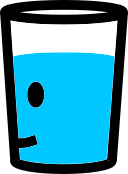
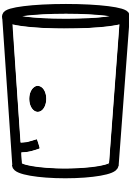
頭の水

diff --git a/Assets/Low_Swordman/Demo/Scripts/Swordman.cs b/Assets/Low_Swordman/Demo/Scripts/Swordman.cs
@@ -13,6 +13,8 @@ public class Swordman : PlayerController
 
         placeWater = this.transform.Find("WaterPlacer").GetComponent<PlaceWater>();
         removeWater = this.transform.Find("WaterRemover").GetComponent<RemoveWater>();
+
+        mask = this.transform.Find("model/body/Head/Hat-Helmet/Mask/MaskObj");
     }
 
 
@@ -30,7 +32,7 @@ public class Swordman : PlayerController
 
         }
 
-
+        mask.transform.localScale = new Vector3(1, (float)waterAmount / maxWaterAmount, 1);
 
 
     }

diff --git a/Assets/Low_Swordman/Demo/Scripts/PlayerController.cs b/Assets/Low_Swordman/Demo/Scripts/PlayerController.cs
@@ -22,6 +22,8 @@ public abstract class PlayerController :MonoBehaviour
     protected PlaceWater placeWater;
     protected RemoveWater removeWater;
 
+    protected Transform mask;
+
     [Header("[Setting]")]
     public float MoveSpeed = 6;
     public int JumpCount = 2;
